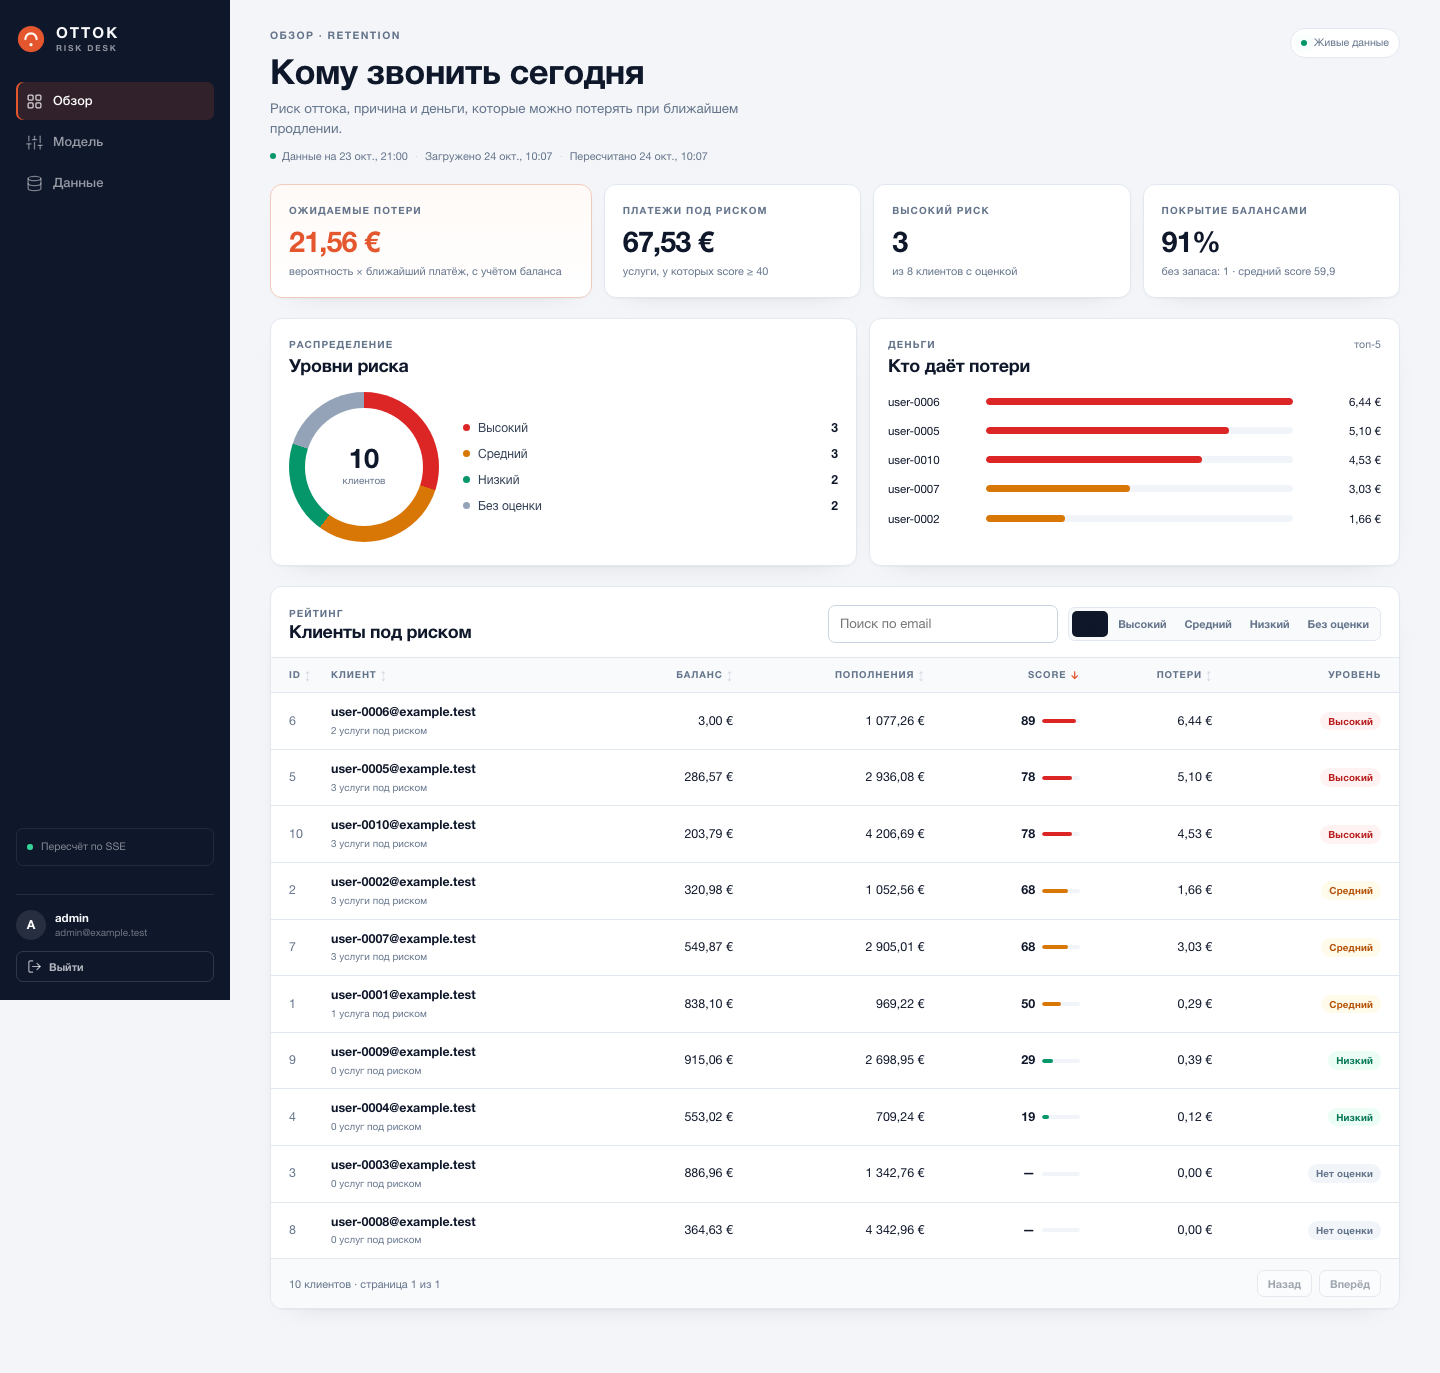
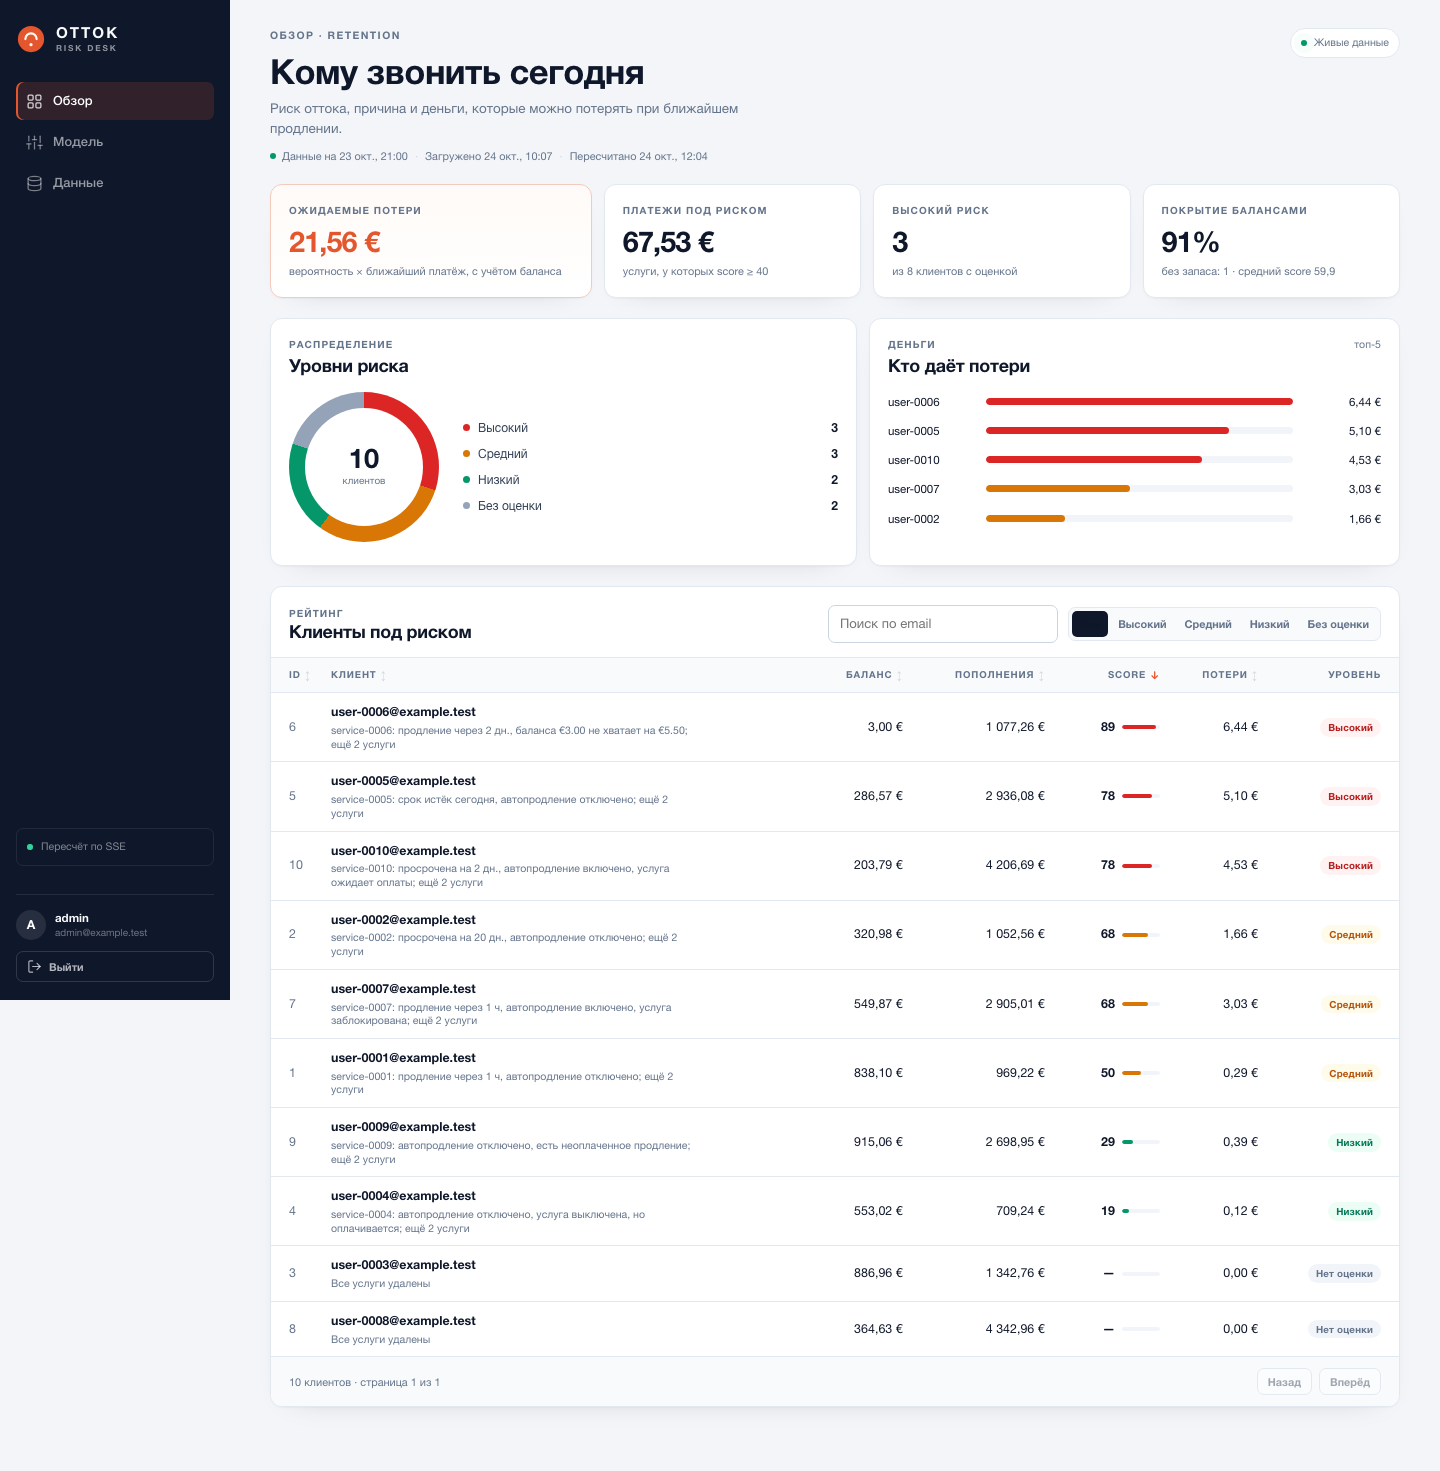
feat(ux): show score reasons in the rating and align docs with acceptance

diff --git a/frontend/src/pages/Dashboard.tsx b/frontend/src/pages/Dashboard.tsx
@@ -274,7 +274,9 @@ export function Dashboard({ onSelect, liveTick }: { onSelect: (id: number) => vo
                     <td>
                       <div className="client-cell">
                         <span className="client-cell__email">{item.email}</span>
-                        <span className="client-cell__meta">{servicesWord(item.servicesAtRisk)} под риском</span>
+                        <span className="client-cell__meta" title={item.summary}>
+                          {item.summary}
+                        </span>
                       </div>
                     </td>
                     <td className="num">{money(item.balance)}</td>
@@ -308,6 +310,7 @@ export function Dashboard({ onSelect, liveTick }: { onSelect: (id: number) => vo
                 <span className="mobile-client__email">{item.email}</span>
                 <LevelBadge level={item.level} />
               </div>
+              <p className="mobile-client__reason">{item.summary}</p>
               <div className="mobile-client__meta">
                 <span>Score {item.score === null ? "—" : Math.round(item.score)}</span>
                 <span>{servicesWord(item.servicesAtRisk)} под риском</span>

diff --git a/frontend/src/styles.css b/frontend/src/styles.css
@@ -1021,7 +1021,13 @@ code {
 }
 
 .client-cell__meta {
-  font-size: 0.62rem;
+  display: -webkit-box;
+  max-width: 360px;
+  overflow: hidden;
+  -webkit-box-orient: vertical;
+  -webkit-line-clamp: 2;
+  font-size: 0.66rem;
+  line-height: 1.3;
   color: var(--muted);
 }
 
@@ -1119,6 +1125,13 @@ code {
   font-size: 0.78rem;
   font-weight: 600;
   overflow-wrap: anywhere;
+}
+
+.mobile-client__reason {
+  margin-top: 4px;
+  font-size: 0.68rem;
+  color: var(--muted);
+  line-height: 1.35;
 }
 
 .mobile-client__meta {

diff --git a/frontend/src/types.ts b/frontend/src/types.ts
@@ -10,6 +10,7 @@ export interface CustomerListItem {
   expectedLoss: number;
   amountAtRisk: number;
   servicesAtRisk: number;
+  summary: string;
 }
 
 export interface RuleExplanation {

diff --git a/backend/app/api.py b/backend/app/api.py
@@ -217,7 +217,8 @@ def customers(
     rows = conn.execute(
         f"""
         SELECT cs.account_id AS id, a.email, a.balance, a.total_replenished,
-               cs.score, cs.level, cs.expected_loss, cs.amount_at_risk, cs.services_at_risk
+               cs.score, cs.level, cs.expected_loss, cs.amount_at_risk,
+               cs.services_at_risk, cs.detail
         FROM customer_scores cs JOIN accounts a ON a.id = cs.account_id
         WHERE {where_sql}
         ORDER BY {order_sql}, a.id ASC
@@ -226,20 +227,23 @@ def customers(
         [*params, pageSize, offset],
     ).fetchall()
 
-    items = [
-        {
-            "id": int(row["id"]),
-            "email": row["email"],
-            "balance": euros(row["balance"]),
-            "totalReplenished": euros(row["total_replenished"]),
-            "score": row["score"],
-            "level": row["level"],
-            "expectedLoss": euros(row["expected_loss"]),
-            "amountAtRisk": euros(row["amount_at_risk"]),
-            "servicesAtRisk": int(row["services_at_risk"]),
-        }
-        for row in rows
-    ]
+    items = []
+    for row in rows:
+        detail = json.loads(row["detail"])
+        items.append(
+            {
+                "id": int(row["id"]),
+                "email": row["email"],
+                "balance": euros(row["balance"]),
+                "totalReplenished": euros(row["total_replenished"]),
+                "score": row["score"],
+                "level": row["level"],
+                "expectedLoss": euros(row["expected_loss"]),
+                "amountAtRisk": euros(row["amount_at_risk"]),
+                "servicesAtRisk": int(row["services_at_risk"]),
+                "summary": detail.get("summaryText") or detail.get("unknownReason") or "",
+            }
+        )
     return {"items": items, "total": int(total), "page": page, "pageSize": pageSize}
 
 

diff --git a/backend/tests/test_ux_contract.py b/backend/tests/test_ux_contract.py
@@ -36,3 +36,12 @@ def test_feature_help_metadata(client):
     for feature in features:
         assert feature['zero']
         assert feature['one']
+
+
+def test_list_contains_reason(client):
+    login(client)
+    items = client.get('/api/v1/customers?pageSize=100').json()['items']
+    assert len(items) == 10
+    assert all(item['summary'] for item in items)
+    assert next(item for item in items if item['id'] == 6)['summary'].startswith('service-0006:')
+    assert next(item for item in items if item['id'] == 3)['summary'] == 'Все услуги удалены'

diff --git a/docs/STATUS.md b/docs/STATUS.md
@@ -23,7 +23,7 @@
 | README + модель + архитектура + «как добавить признак» | ✅ | `README.md`, `docs/` |
 | Расширяемость признаков | ✅ | `FEATURES_META`, `backend/app/scoring.py` |
 | Комментарий `Aéza` | ✅ | `backend/app/main.py`, `Dockerfile` |
-| Тесты | ✅ | `backend/tests` + генератор, 249 passed (см. ниже) |
+| Тесты | ✅ | `backend/tests` + генератор, 250 passed (см. ниже) |
 
 ## Ещё не сделано (P1/P2)
 
@@ -142,4 +142,6 @@ PYTHONPATH=backend python scripts/export_openapi.py
   таблицы, `aria-sort`, focus-состояния.
 - Карточка клиента получила «Следующее действие»; технические правила
   убраны в свёрнутый блок «Детали расчёта».
-- Проверка: `249 passed`, `npm run build`, Docker healthy.
+- Причина оценки видна уже в рейтинге под email (обрезается до двух строк,
+  полный текст — в tooltip) и в мобильных карточках.
+- Проверка: `250 passed`, `npm run build`, Docker healthy.

diff --git a/docs/DEMO.md b/docs/DEMO.md
@@ -72,6 +72,6 @@ curl -s localhost:8000/metrics | grep -E 'churn_(customers_total|expected_loss_e
 - **Почему баланс снижает потери только на 50%?** Он закрывает ближайший
   платёж, но не удерживает клиента; будущая выручка всё равно теряется.
 - **Почему не Postgres?** Кейс требует Docker Compose; SQLite проходит
-  приёмку и 249 тестов. Postgres — отдельный этап после сдачи.
+  приёмку и 250 тестов. Postgres — отдельный этап после сдачи.
 - **Что с историческим графиком?** В данных нет дат удаления; можем накапливать
   собственные снапшоты и прогнозировать непродления по `expiresAt`.

diff --git a/docs/ARCHITECTURE.md b/docs/ARCHITECTURE.md
@@ -215,7 +215,8 @@ GET /api/v1/customers?sort=balance&order=desc&level=high&q=ivan&page=1&pageSize=
       "level": "high",
       "expectedLoss": 5.51,
       "amountAtRisk": 9.90,
-      "servicesAtRisk": 1
+      "servicesAtRisk": 1,
+      "summary": "service-0006: продление через 2 дн., баланса €3.00 не хватает на €5.50"
     }
   ],
   "total": 137,
